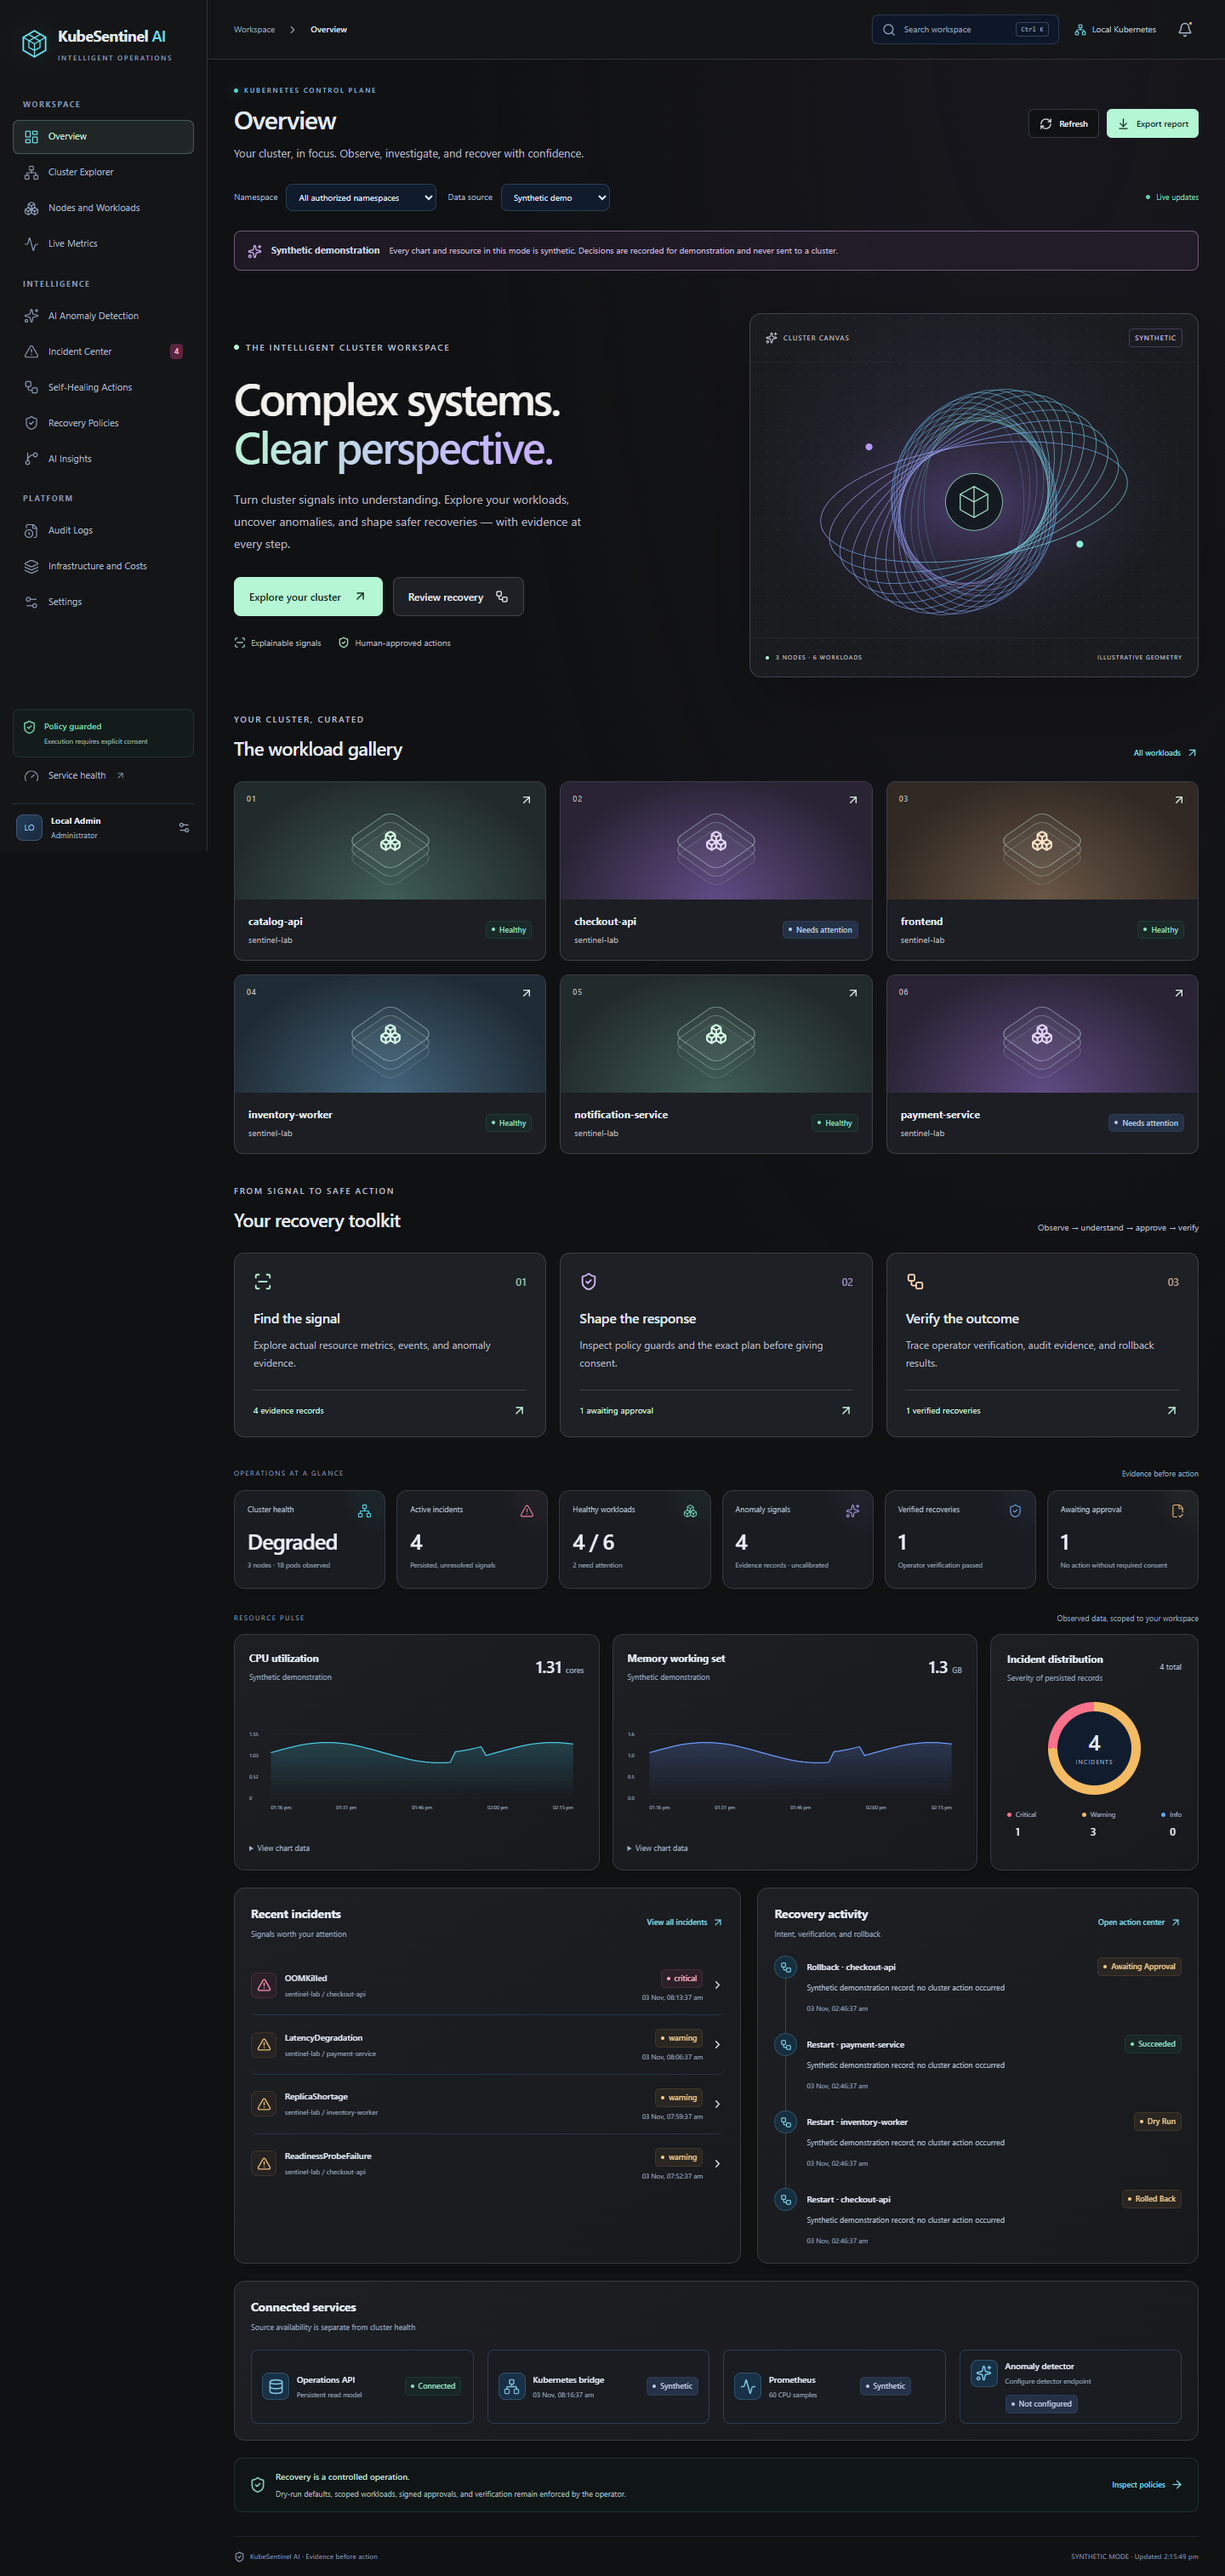
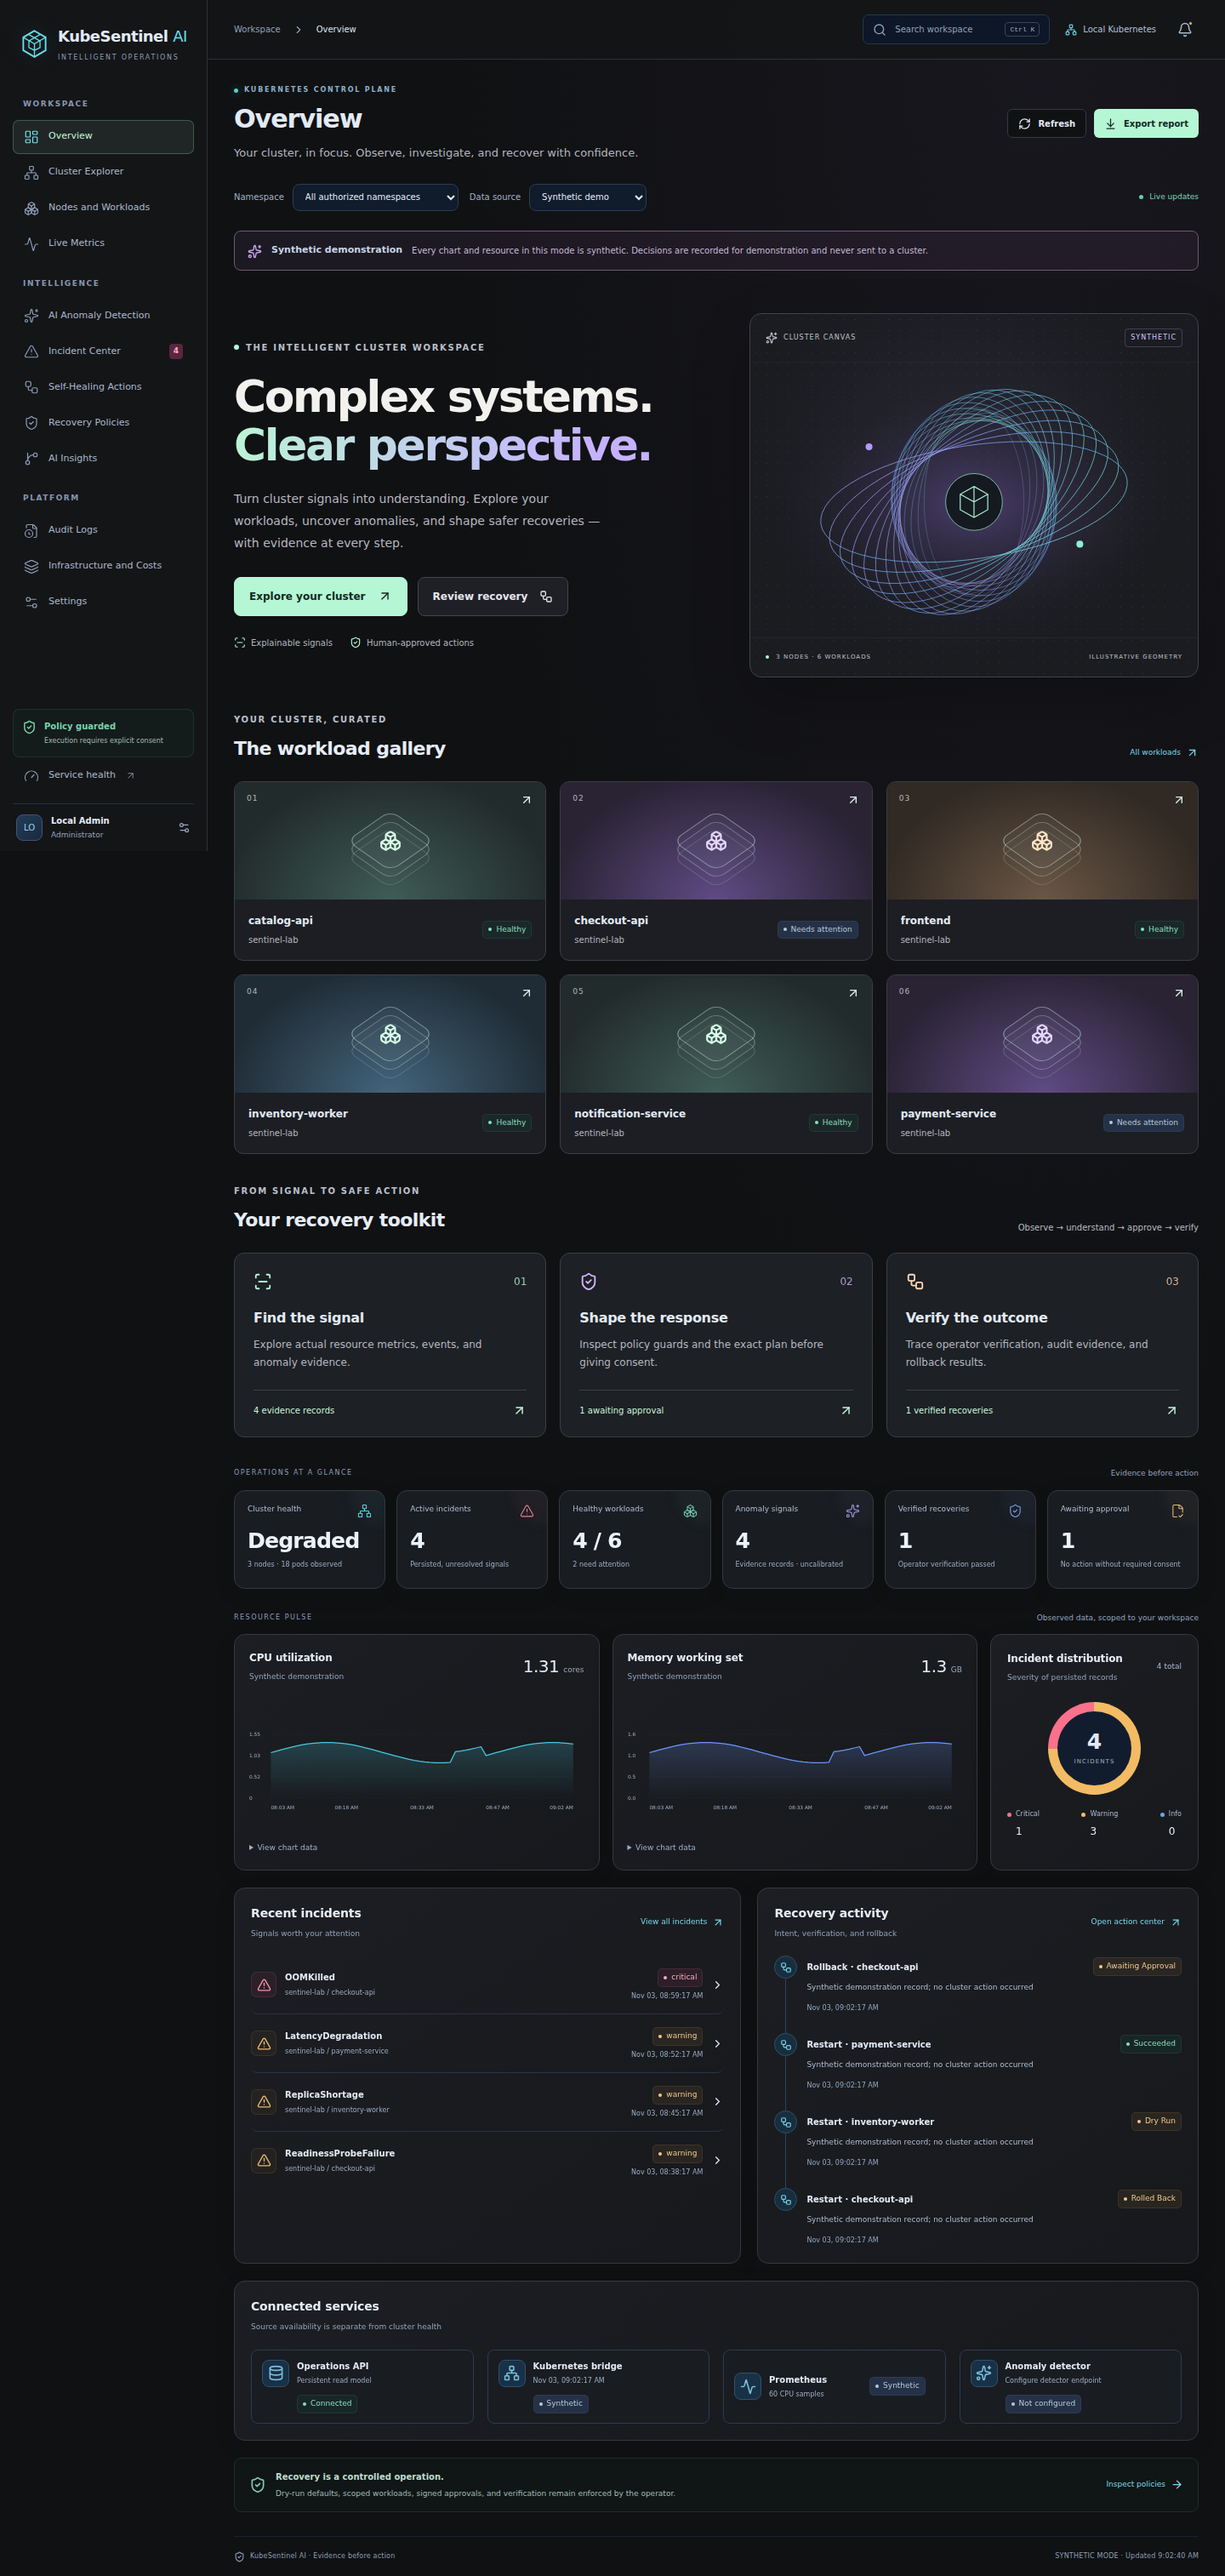
docs: archive dashboard acceptance evidence

diff --git a/docs/reports/phase-07-validation.md b/docs/reports/phase-07-validation.md
@@ -10,10 +10,10 @@ Windows, Node 24.14.1/npm 11.11.0, Python 3.12.4 and installed Microsoft Edge:
 
 | Command | Observed result |
 | --- | --- |
-| `uv run pytest -m "not postgres" -q` | 56 passed, PostgreSQL test deselected |
+| `uv run pytest -m "not postgres" -q` | 57 passed, PostgreSQL test deselected |
 | `npm run lint` | Passed |
 | `npm run typecheck` | Passed |
-| `npm test` | 13 passed, including encrypted flow-cookie integrity and same-origin checks |
+| `npm test` | 16 passed, including namespace-safe evidence, read-only controls, encrypted flow-cookie integrity and same-origin checks |
 | `npm run build` | Optimized Next.js build passed, including dynamic auth/proxy/section routes |
 | `uv run ruff check .`, `uv run ruff format --check .`, `uv run mypy` | Passed: Ruff check/format and strict mypy (61 source files) |
 | `go -C operator test ./... -count=1`, `go -C operator vet ./...` | Passed with Go 1.26.8, including rejection-before-mutation regression |
@@ -30,9 +30,15 @@ The Playwright suite covers default real/empty mode, separate synthetic mode, al
 - [Tablet capture](../screenshots/phase-07/tablet.png)
 - [Mobile capture](../screenshots/phase-07/mobile.png)
 
+## Production-browser evidence
+
+Runtime source: `024ee9c6cd31e154e2d906e687ac7ae523a9252c`. The [actual browser job](https://github.com/manikantbindass/KubeSentinel-AI/actions/runs/41607540612/job/125821029497) passed all six flows in 27.93 seconds against the production Next.js build and the real PostgreSQL 17.10/Redis 8.2.2 API. There were no skipped, unexpected or flaky tests. [Archived results](phase-07/browser-results.json) contain source provenance and observed test results. The committed responsive screenshots are from this CI run and show explicitly synthetic fixtures persisted through the real API; they are not screenshots of genuine cluster telemetry.
+
+The first production-browser attempt caught a real changed-preference feedback bug. Saving a new polling interval remounted the form and removed its success message. The form now mounts after initial preferences load, remains mounted after a save, and the E2E test resets the prior value to ensure a genuine change is exercised.
+
 ## CI and acceptance boundaries
 
-The Operations dashboard workflow starts the actual migrated PostgreSQL/Redis FastAPI application and production Next.js build for the same browser suite. Its separate disposable kind job checks real collection, denied Deployment/pod/Secret privileges, API rejection, Python-signed plan approval accepted by the Go operator, scale recovery, verification and durable command evidence. CI results must pass before these paths are called verified. The existing migration round-trip job now checks revision `0004_operations` and its snapshot table. No unauthenticated public telemetry or fabricated cluster screenshot is substituted for this evidence.
+The Operations dashboard workflow starts the actual migrated PostgreSQL/Redis FastAPI application and production Next.js build for the same browser suite. Its separate disposable kind job checks real collection, denied Deployment/pod/Secret privileges, API rejection, Python-signed plan approval accepted by the Go operator, scale recovery, verification and durable command evidence. All 16 checks passed for runtime source `024ee9c6cd31e154e2d906e687ac7ae523a9252c`: [archived check links and results](phase-07/checks.json). The [real kind evidence](phase-07/cluster-results.json) records 80 collected resources, a rejected action, and an approved scale action reaching `Succeeded` with four available replicas. Container startup, database migration round-trip, local Kubernetes, operator recovery, observability ingestion and ML reproducibility checks also passed in Linux CI. This evidence-only documentation follow-up does not change runtime code; its own newly triggered checks are separate. The existing migration round-trip job now checks revision `0004_operations` and its snapshot table. No unauthenticated public telemetry or fabricated cluster screenshot is substituted for this evidence.
 
 Local Docker startup remains blocked: the Windows Docker Desktop engine pipe is unavailable. Therefore local PostgreSQL/Redis/container/kind acceptance is not claimed. OIDC signature/claim checks and BFF cryptographic/CSRF behavior have automated tests, but no live enterprise identity-provider tenant has been certified. Review issuer/client configuration and externally exposed legacy routes before deployment.
 
